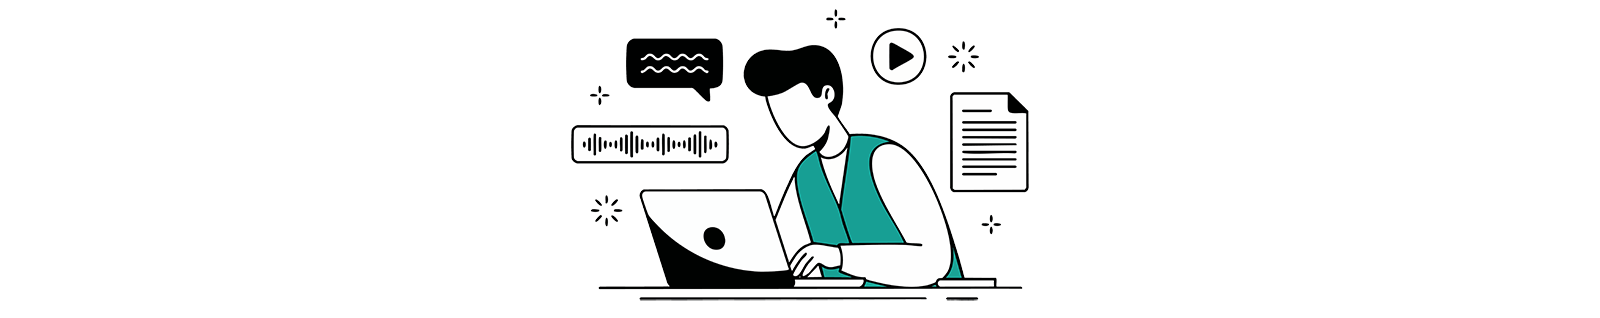
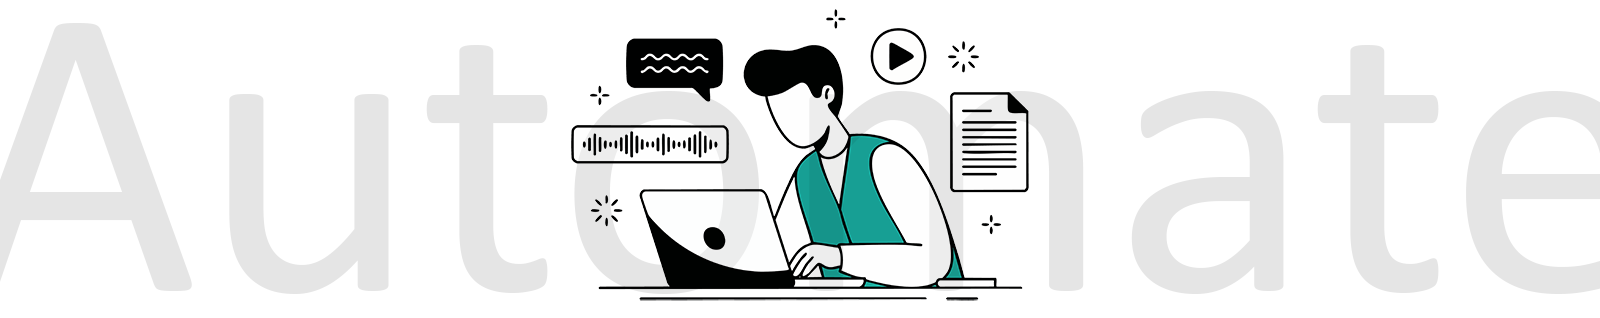
news: Parakeet v1.0.0 — retitle, copy pass, add UI screenshots
New images: current_tab, save_audio, meeting_mode, detect_speakers,
template01/02. Re-export batch_mode + privacy_screen.

diff --git a/news/npp_parakeet_v1.0.0.md b/news/npp_parakeet_v1.0.0.md
@@ -1,7 +1,7 @@
 ---
-title: "Parakeet AI Plugin — Voice and meeting transcription, summaries and translation for Nextpad++"
+title: "Parakeet AI Plugin for Voice and Meeting Transcription, Summarization and Translation"
 date: 2026-07-20
-description: A complete guide to Parakeet — a private, on-device voice plugin for Nextpad++. Live transcription, meeting capture with You/Them labels, AI summaries, and translation all across 200 languages. It's your private Granola notepad on device.
+description: Parakeet — a private, on-device voice plugin for Nextpad++. Live transcription, meeting capture, AI summaries, and translation across 200 languages. Your private Granola notepad on device.
 tags: [nextpad++, transcription, whisper, translation, meetings, AI]
 ---
 
@@ -9,15 +9,15 @@ tags: [nextpad++, transcription, whisper, translation, meetings, AI]
 
 # Parakeet AI Plugin v1.0.0
 
-Parakeet Plugin turns Nextpad++ into a **voice workstation**. Speak, and your words appear in a tab as you talk. Record a zoom meeting and get a transcript neatly labeled **You:** and **Them:**. Turn a voice memo into clean meeting notes or a to-do list. Translate any note into any of **200 languages**. Privacy and simplicity is the goal and **all of it happens on your Mac** — nothing is uploaded anywhere. You can use it on 10 year old Macs and transcribe your yoga instructor translating into English in real-time deep in Bali and it should work fine. 
+Parakeet Plugin turns Nextpad++ into a **voice workstation**. Speak, and your words appear in a tab as you talk. Record a zoom meeting and get a transcript neatly labeled **You:** and **Them:**. Turn a voice memo into clean meeting notes or a to-do list. Translate any note into any of **200 languages**. Privacy and simplicity is the goal and **all of it happens on your Mac**. Nothing is uploaded anywhere. You can also run batches of voice or notes thru it and get entire folder of video, audio files  transcribed, notes summarized and translated. Parakeet also runs fine, although CPU-only, on 10 year old Macs.   
 
-If you've used an AI meeting-notes app like **Granola Notepad**, Parakeet gives you most of the same experience — record a call, or run it to get a clean transcript, turn it into structured notes and action items — with one decisive difference: it runs **entirely on your Mac, with full privacy and no internet connection required.** No bot joins your call, no audio is uploaded to anyone's servers, and there's no subscription. The plugin is free and the AI models live on your own disk. 
+If you've used an AI meeting-notes app like **Granola Notepad**, Parakeet gives you the same functionality — record a call to get a clean transcript, turn it into structured notes and action items with one decisive difference: it runs **entirely on your Mac, with full privacy and no internet connection required.** No bot joins your call, no audio is uploaded to anyone's servers, and there's no subscription. The plugin is **free** and the AI models live on your own disk. You can choose what model to use in one click. In fact, all functions are reachable in a single click. 
 
-Installing and using it is literally 2 clicks and the UI was designed to give you all controls on a single screen.
+Installing Parakeet and using it is literally 2 clicks and the UI was designed to give you all controls on a single screen.
 
-This guide walks you from install to power-user: how to record, how to run meetings, how the model "store" works, what every setting does, and what the messages in the activity log mean.
+This guide explains how to record, how to run meetings, how the model store works, what every setting does, and what the messages in the activity log mean. If you don't have time to read it, you can just install Parakeet and click away. It's pretty intuitive to use.
 
-Parakeet requires **Nextpad++ v1.0.7** and above and installs in one click from **Plugin Admin → Available**.
+Parakeet requires **Nextpad++ v1.0.7** and later and installs in one click from **Plugin Admin → Available**.
 
 
 ![main-screen](npp_parakeet_v1.0.0/main_screen.png) *Parakeet v1.0.0 main screen*
@@ -32,12 +32,12 @@ Parakeet requires **Nextpad++ v1.0.7** and above and installs in one click from 
 
 Parakeet was built **private by default.** Here is exactly where your voice and text go:
 
-- **Recording, transcription, speaker labels, meeting capture, on-device summaries, parallel audio mp4 format file recording, and on-device translation all run entirely on your Mac, offline.** The AI models are ordinary files sitting in your Library folder. The audio is processed by a small helper app on your machine and is **never uploaded, never stored on a server, and never sent to anyone else.**
+- **Recording, transcription, speaker labels, meeting capture, on-device summaries, parallel audio .m4a format file recording, and on-device translation all run entirely on your Mac, offline.** The AI models are ordinary files sitting in your Library folder. The audio is processed by a small helper app on your machine and is **never uploaded, never stored on a server, and never sent to anyone else.**
 - **Your microphone is only ever touched while you're recording**, and the macOS permission prompt is attributed to *ParakeetEngine* (Parakeet's helper), so you always know who's listening.
 - **The only time any text leaves your Mac** is if *you* deliberately pick a **cloud** summarizer or translator (Claude, ChatGPT, or Grok). Even then, only the text of the one note you're summarizing or translating is sent — over *your* account — and nothing else. Every core feature has a fully local option, so you never have to use the cloud at all.
-- **No account, no sign-in, no subscription** is required for any on-device feature.
+- **No account, no sign-in, no subscription** is required for any on-device feature. It's free.
 
-In short: speak freely. What's said on your Mac stays on your Mac. Parakeet doesn't manage notes for you. It uses Nextpad++, which stores them locally and can track changes or optionally, in your private cloud (can be adjusted in Nextpad++ settings). 
+In short, what's said on your Mac stays on your Mac. Parakeet doesn't manage notes for you. It uses Nextpad++ which stores them locally and can track changes (optionally you can point notes backup to your private cloud in Nextpad++ settings). 
 
 ---
 
@@ -50,9 +50,9 @@ Open the panel with the toolbar parakeet button or **Plugins → Parakeet → Sh
 Two models ship inside the plugin so it works immediately:
 
 - **Whisper Small** — speech recognition, 100 languages, the default transcriber.
-- A **voice-activity detector** that cleanly splits your speech into sentences.
+- A **voice-activity detector** that  splits your speech into sentences.
 
-The standard summarizer (about 1.2 GB) downloads by itself in the background the first time you summarize. Everything else — bigger transcription models, translators, speaker detection — is optional and lives in **Models & Languages** at the bottom of the panel.
+The standard summarizer (about 1.2 GB) downloads by itself in the background the first time you launch Parakeet. Everything else — bigger transcription models, translators, speaker detection — is optional and lives in **Models & Languages** panel.
 
 **The panel at a glance:**
 
@@ -79,19 +79,23 @@ Three ways to capture speech:
 
 - **Voice note** — the button above; a new dated tab.
 - **Dictate into your document** — tick **Use current tab** and the same live transcription flows into the document you're already editing instead (details just below). Perfect for dictating a paragraph into notes or a code comment.
-- **Transcribe a file** — click **…**, choose any audio or video file (anything QuickTime can open), and Parakeet transcribes it into a new tab — including speaker labels if enabled.
+- **Transcribe a file** — click **…**, choose any **audio** or **video** file (anything QuickTime can open), and Parakeet transcribes it into a new tab — including speaker labels if enabled.
 
 ![parakeet-recording](npp_parakeet_v1.0.0/transcribe01.png) *File transcription streaming into a tab*
 
 
-**Prefer everything in one document?** Tick **Use current tab** (next to the meeting checkbox) and Parakeet works inside the tab you're in instead of opening new ones:
+**Prefer everything in one document?** 
+![parakeet-meeting1](npp_parakeet_v1.0.0/current_tab.png)
+Tick **Use current tab** (next to the meeting checkbox) and Parakeet works inside the tab you're in and on selection instead of opening new tabs:
 
 - **Recording & file transcription** — the text **appends to the end** of your tab (no date header, just your words after a blank line).
 - **Summarize & Translate** — with **nothing selected**, the whole document is processed and the result is written **at your cursor**; with **text selected**, only the selection is processed and the result appears **just below it**. Select one paragraph of a long note, press Translate, and the translation lands right underneath.
 
 Your existing text is always safe: Parakeet only appends or inserts — it never replaces what you wrote (speaker labels only touch text Parakeet itself streamed). If the current tab is read-only, it tells you and opens a new tab as usual.
 
-**Want to keep the audio too?** Tick **Save audio** and every live recording is also saved as an **.m4a** file in **`~/Music/Parakeet`**, named with the date and time (e.g. *Voice note 2026-[phone redacted].m4a*). The exact file path appears in the activity log when the recording stops, so it's always one glance away. In **Meeting mode** the file contains **both sides of the call** — your mic and the meeting audio, exactly as transcribed — which makes it perfect for re-transcribing later with a bigger model, or translating the same meeting into several languages from the **…** file picker. Cancelled recordings don't leave a file behind. (Files are compact: about 14 MB per hour of audio.)
+**Want to keep the audio file too?** 
+![parakeet-meeting2](npp_parakeet_v1.0.0/save_audio.png)
+Tick **Save audio** and every live recording is also saved as an **.m4a** file in **`~/Music/Parakeet`**, named with the date and time (e.g. *Voice note 2026-[phone redacted].m4a*). The exact file path appears in the activity log when the recording stops, so it's always one glance away. In **Meeting mode** the file contains **both sides of the call** — your mic and the meeting audio, exactly as transcribed. Parallel audio file recording is great for re-transcribing later with a bigger model, or translating the same meeting into several languages from the **…** file picker. Or even feeding it into Granola Notepad. (Audio files are compact: about 14 MB per hour of audio.) 
 
 ---
 
@@ -99,15 +103,17 @@ Your existing text is always safe: Parakeet only appends or inserts — it never
 
 ![parakeet-meeting](npp_parakeet_v1.0.0/meeting01.png) *Meeting mode + Detect speakers = a labeled meeting transcript*
 
-This is Parakeet's flagship feature. On a Zoom / Teams / Meet call **with headphones on**, the other participants' voices exist only inside your computer's audio output — an ordinary microphone can't hear them. Tick **Meeting mode** and Parakeet records **both sides**: your mic *and* everything you hear.
-
+This is Parakeet's great feature. On a Zoom / Teams / Meet call **with headphones on**, the other participants' voices exist only inside your computer's audio output — an ordinary microphone can't hear them. Tick **Meeting mode** and Parakeet records **both sides**: your mic *and* everything you hear.
+![parakeet-meeting](npp_parakeet_v1.0.0/meeting_mode.png)
 - **One-time setup, one password.** The first time you enable it, Parakeet installs a small audio component called **Parakeet Loopback** — a single administrator authentication, once per Mac, with about two seconds of audio blip while the sound system restarts. You'll never be asked again.
 - **Automatic on every call.** When you press Record, Parakeet quietly routes your sound through a temporary **Parakeet Meeting Output** device (you keep hearing everything normally), captures both streams, and **restores your audio the instant you stop** — even after a crash or force-quit.
-- **You: / Them: labels.** Tick **Detect speakers** *together with* **Meeting mode** and your transcript is grouped into **You:** (your microphone) and **Them:** (the call audio) paragraphs. Because Parakeet knows which audio *stream* each word arrived on, this is more reliable than any voice-fingerprint AI — and it needs no extra models, so it works on every Mac.
+- **You: / Them: labels.** 
+![parakeet-meeting](npp_parakeet_v1.0.0/detect_speakers.png)
+Tick **Detect speakers** *together with* **Meeting mode** and your transcript is grouped into **You:** (your microphone) and **Them:** (the call audio) paragraphs. Because Parakeet knows which audio *stream* each word arrived on, this is more reliable than any voice-fingerprint AI — and it needs no extra models, so it works on every Mac.
 
 > **Tips for great meeting transcripts.** Keep your meeting app's speaker setting on "Same as System" (its default). Wear headphones — without them your mic also hears the speakers, so remote voices can appear twice. And note: the macOS volume keys pause working while a meeting recording is active, so set a comfortable volume before you start.
 
-No bots joining your call, no cloud transcription service, no recording uploaded anywhere.
+No bots joining your call, no cloud transcription service, no recording uploaded anywhere. 
 
 ---
 
@@ -115,7 +121,7 @@ No bots joining your call, no cloud transcription service, no recording uploaded
 
 ![parakeet-summarize](npp_parakeet_v1.0.0/summarize01.png) *A voice memo turned into meeting notes*
 
-**Summarize** rewrites the active tab into a clean, structured note in a brand-new tab (your original is never touched). Pick a **template** from the dropdown next to the Language box — it decides *how* the note is structured:
+**Summarize** rewrites the active tab into a clean, structured note (your original is never touched).  Pick a **template** from the dropdown next to the Language box — it decides *how* the note is structured:
 
 - **Voice memo** — a tidy memo of the key points,
 - **Meeting notes** — decisions, action items, discussion topics,
@@ -123,7 +129,9 @@ No bots joining your call, no cloud transcription service, no recording uploaded
 - **Interview** — a Q&A-style write-up,
 - **Lecture** — organized notes with headings and takeaways.
 
-*(The template only affects **Summarize** — it doesn't change recording or transcription. Each template has its own editable prompt; see **Settings for each model type**.)*
+![parakeet-meeting](npp_parakeet_v1.0.0/template02.png)
+
+*(The template only affects **Summarize** — it doesn't change recording or transcription. Each template has its own editable prompt (you can change it); see **Settings for each model type**.)*
 
 Summaries run one of two ways, your choice per model:
 
@@ -157,7 +165,7 @@ For recordings *without* meeting capture — an interview across a table, a hall
 
 ![parakeet-models](npp_parakeet_v1.0.0/models01.png) *The catalog: every model, its type, size, and languages, with per-row actions*
 
-The bottom half of the panel is a small, private app store for AI models. It's sortable and searchable, and every row has clear actions.
+The bottom half of the panel is a small app store for AI models. It's sortable, and every row has clear Type - where this model is used. You can shuffle which models to use but within a group of models you need a specific model per action like Translation, Summarization, Transcription. 
 
 ### How to download a model
 
@@ -165,7 +173,7 @@ Find the model you want, click **Download**, and Parakeet fetches it in the back
 
 ### How to switch models for a task
 
-Each of the four jobs — transcription, speaker detection, summarizing, translating — uses one **active** model at a time. To change which one, click **Use** on the model you want; it becomes the active model for its type immediately, and the next recording, summary, or translation uses it. If you've never chosen one, Parakeet automatically uses the first installed model of that type (and suggests the catalog's recommended one to download).
+Each of the four jobs — transcription, speaker detection, summarizing, translating — uses one **active** model at a time. To change which one, click **Use** on the model you want; it becomes the active model for its Type immediately, and the next recording, summary, or translation uses it. If you've never chosen one, Parakeet automatically uses the first installed model of that type (and suggests the catalog's recommended one to download).
 
 So, for example: download **Whisper Tiny** and click **Use** to make transcription fast on an older Mac; download **NLLB-200** and click **Use** to make it your translator; download **Gemma 3** and **Use** it if you prefer it over Qwen for summaries.
 
@@ -175,7 +183,7 @@ Click **Delete** and the model's file is removed from your disk to reclaim space
 
 ### Keeping the catalog fresh
 
-New models can appear without updating the plugin — Parakeet periodically pulls a live catalog. Click **Refresh List** to check for new additions right now.
+New models can appear without updating the plugin — Parakeet periodically pulls a live catalog. Click **Refresh List** to check for new additions right now. **Contact me if you wish to add other models to the catalog**.
 
 ### The four model types
 
@@ -200,8 +208,6 @@ Every model has its own **Settings…** (open Models & Languages and click a mod
 - **Vocabulary hints** — a place to type names, jargon, or unusual spellings (e.g. *Nextpad++, Scintilla, Kubernetes, Anya Sharma*) so Parakeet recognizes and spells them correctly.
 ![parakeet-settings01](npp_parakeet_v1.0.0/settings01.png) *Voice Transcription Settings*
 Each speech model remembers its **own** settings, so you can keep Small on beam search and Tiny on greedy, for instance.
-
-
 
 
 ### Speaker Detection settings
@@ -242,7 +248,7 @@ Each speech model remembers its **own** settings, so you can keep Small on beam 
 
 Got fifty meeting recordings to transcribe? A folder of notes to summarize or translate? You don't have to do them one by one.
 
-The three commands in the **Plugins → Parakeet** menu — **Transcribe Audio File**, **Summarize**, and **Translate** — are built for exactly this. Unlike the panel's buttons, they work **quietly in the background**: no new tabs open, no windows pop up, and the result is simply saved as a file **right next to the original**:
+The three commands in the **Plugins → Parakeet** menu — **Transcribe Audio File**, **Summarize**, and **Translate** — are built for exactly this. Unlike the panel's buttons, they work **quietly in the background** and the result is simply saved as a file **right next to the original**:
 
 | You run… | You get… |
 |---|---|
@@ -318,7 +324,7 @@ If anything ever fails, Parakeet's rule is simple: **it degrades, it doesn't blo
 
 # Compatibility
 
-- **Requires**: Nextpad++ **v1.0.7** or later
+- **Requires**: Nextpad++ **v1.0.7** or later although a couple cloud model functions (Claude) only accessible via MCP Server plugin which requires Nextpad++ 1.1.0 or later
 - **macOS**: 12.0+ (Intel and Apple Silicon, universal) — the speaker-detection pack needs macOS 15.5+; meeting capture and You/Them labeling work on every supported version
 - **Disk**: ~240 MB installed (bundled speech models included); optional models range 31 MB – 1.7 GB and can be downloaded and deleted individually at any time
 - **Install**: Plugin Admin → Available → Parakeet